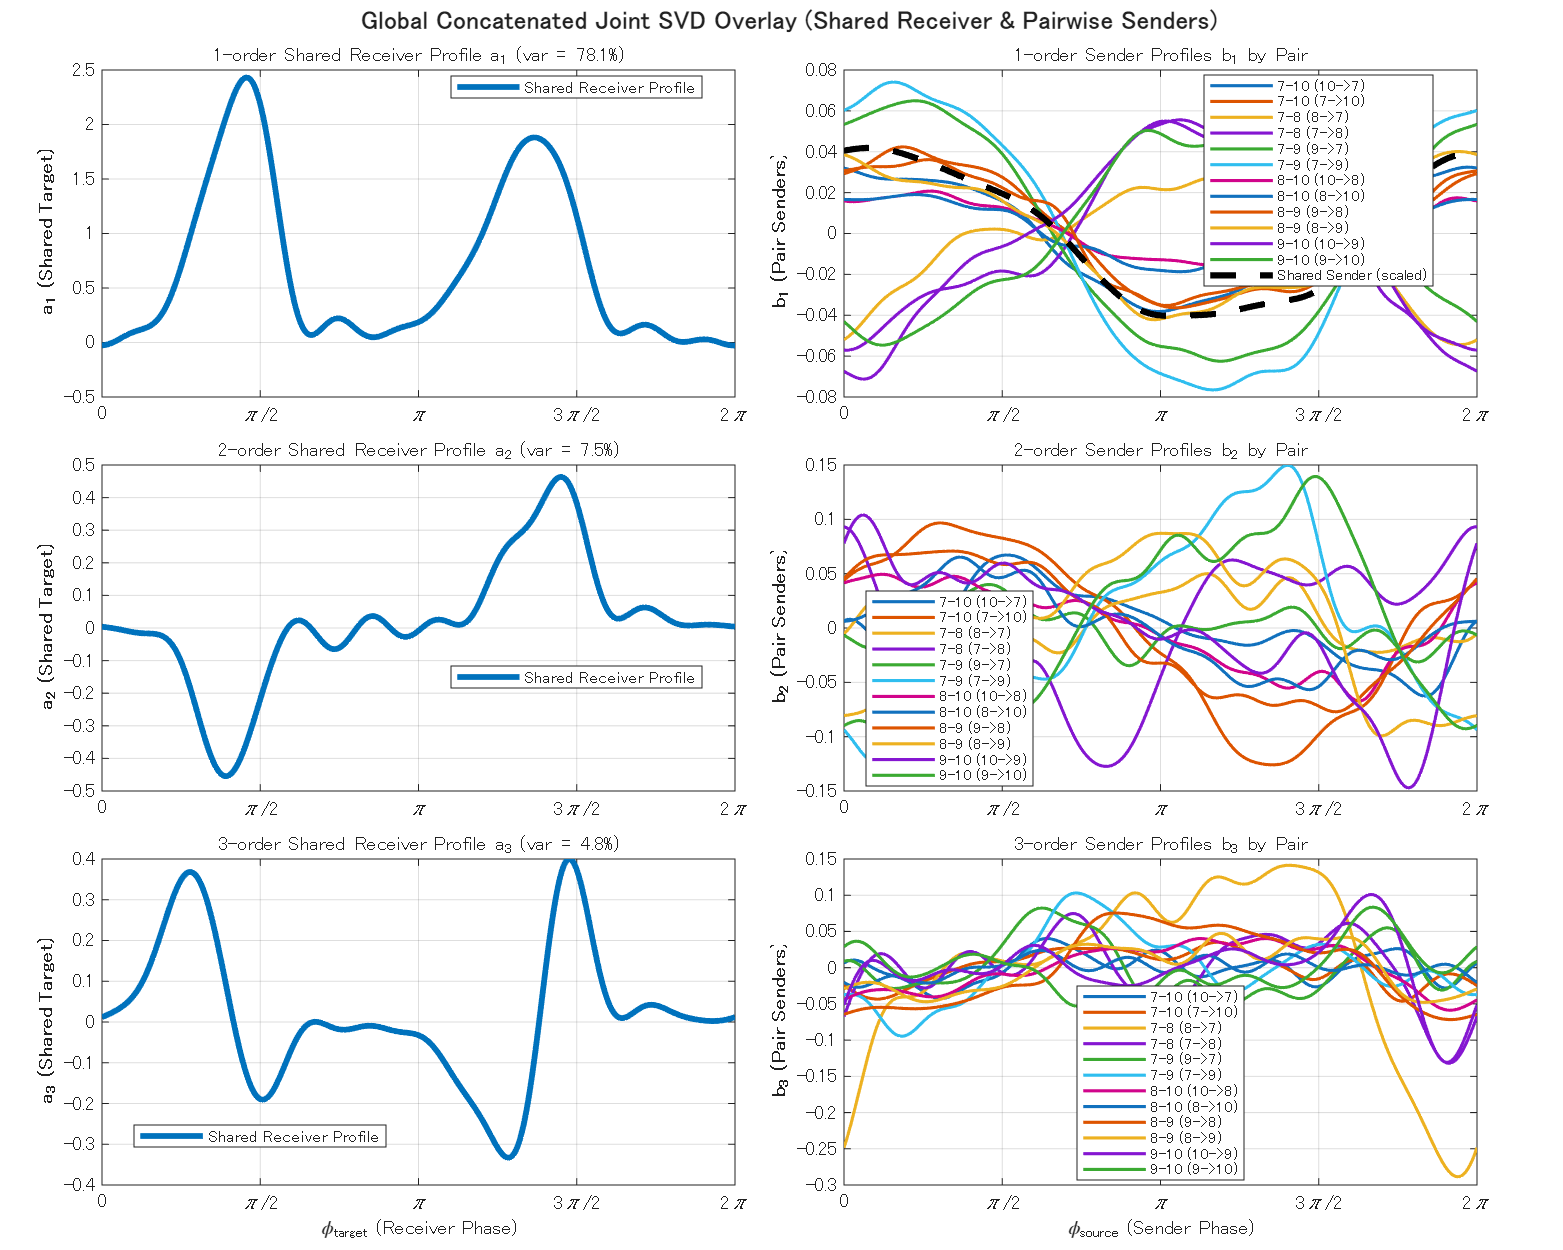
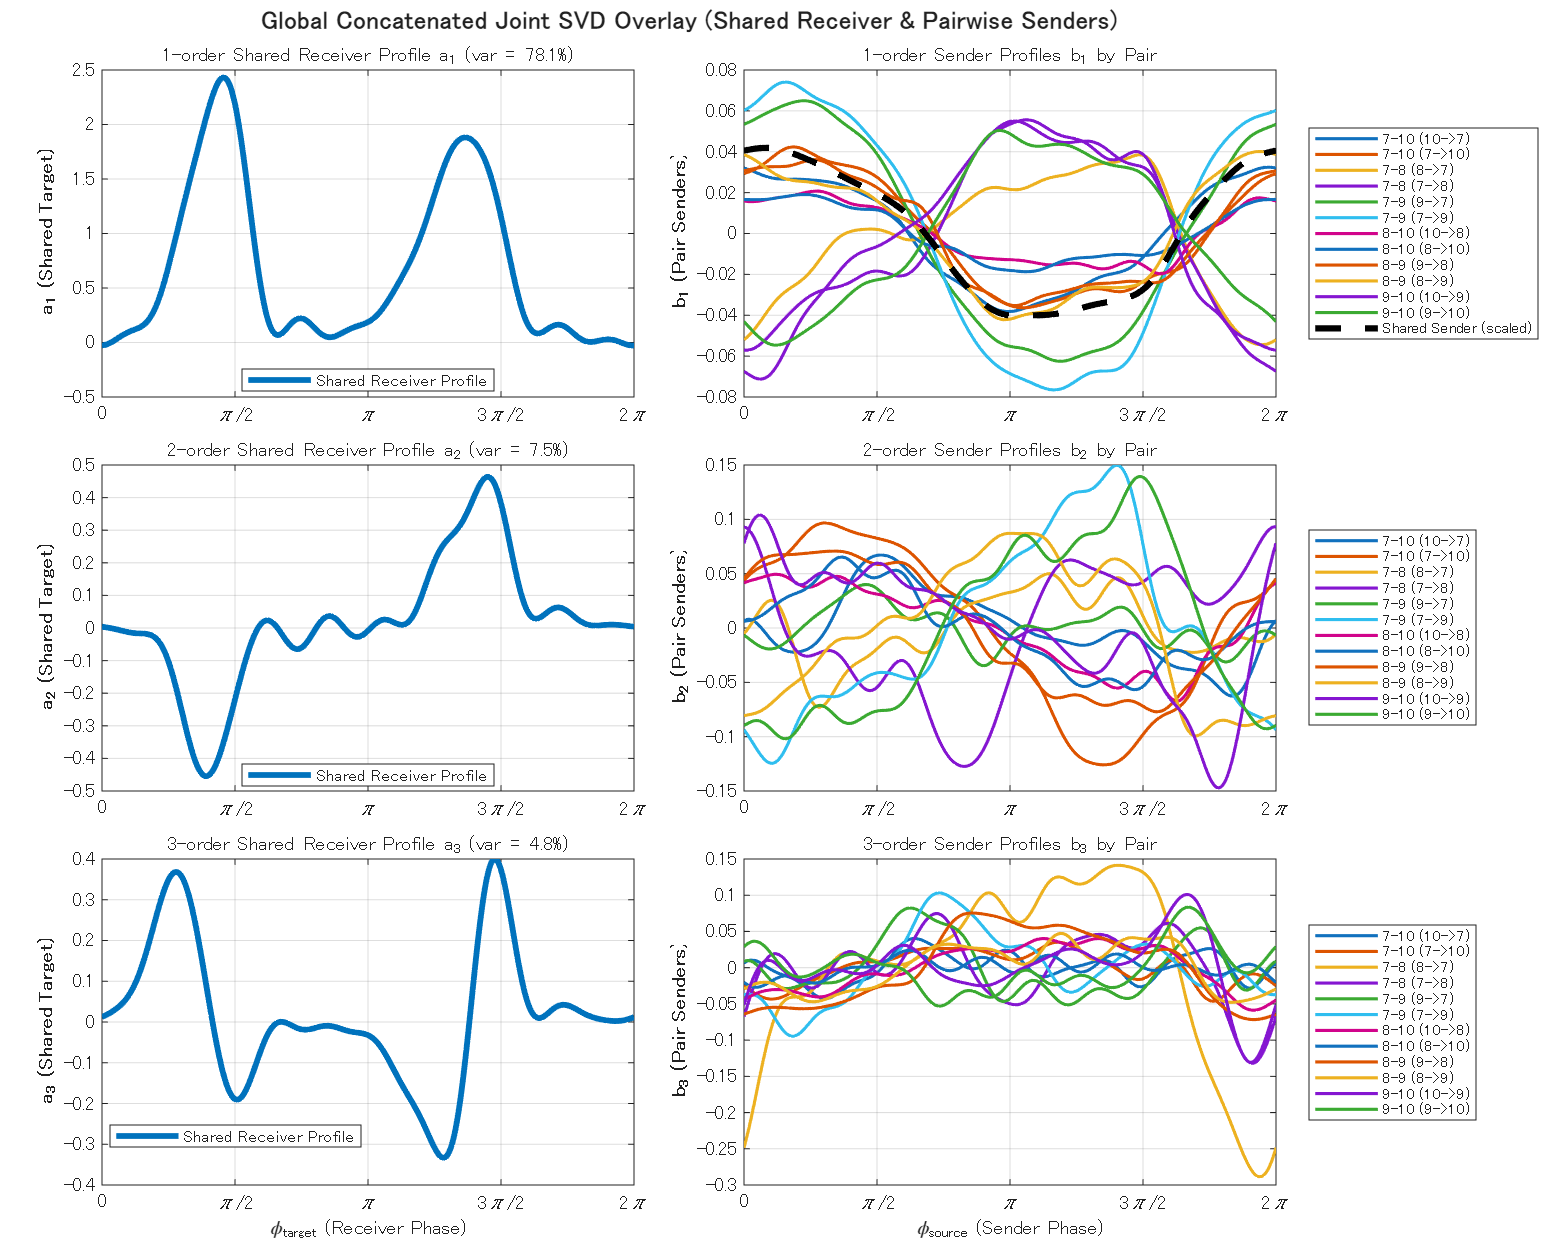
update3

diff --git a/EstimateL/plot_phase_dynamics_from_csv.m b/EstimateL/plot_phase_dynamics_from_csv.m
@@ -207,67 +207,7 @@ function out = plot_phase_dynamics_from_csv(input_path, phase_agent_ids, M, vara
         out.export = save_outputs(out, opts);
     end
 
-    % --- Save 3D plots (s-functions and point cloud overlay) to the respective pair/combination folder ---
-    [combination_folder, ~, ~] = fileparts(csv_paths{1});
-    if ~isempty(combination_folder) && exist(combination_folder, 'dir')
-        try
-            fig_3d = figure('Color', 'w', 'Position', [100, 100, 1100, 500], 'Visible', 'off', ...
-                'Name', sprintf('Fitted s-functions and point cloud - Agents %d and %d', ...
-                phase_agent_ids(1), phase_agent_ids(2)));
-            
-            % Generate grid for 3D surface plot
-            phi_grid_vals = linspace(0, 2*pi, 100);
-            [PhiG1, PhiG2] = meshgrid(phi_grid_vals, phi_grid_vals);
-            S1_grid = evaluate_fit_surface(PhiG1, PhiG2, fit_s1);
-            S2_grid = evaluate_fit_surface(PhiG1, PhiG2, fit_s2);
-            
-            % Subplot 1: s1
-            ax_3d_1 = subplot(1, 2, 1, 'Parent', fig_3d);
-            surf(ax_3d_1, PhiG1, PhiG2, S1_grid, 'EdgeColor', 'none', 'FaceAlpha', 0.7);
-            hold(ax_3d_1, 'on');
-            scatter3(ax_3d_1, point_cloud.phi1, point_cloud.phi2, point_cloud.s1, 8, point_cloud.s1, 'filled', ...
-                'MarkerEdgeColor', 'k', 'MarkerEdgeAlpha', 0.1, 'MarkerFaceAlpha', 0.4);
-            xlabel(ax_3d_1, '\phi_1');
-            ylabel(ax_3d_1, '\phi_2');
-            zlabel(ax_3d_1, 's_1');
-            title(ax_3d_1, sprintf('s_1, Agent %d', phase_agent_ids(1)));
-            set(ax_3d_1, 'XTick', [0, pi, 2*pi], 'XTickLabel', {'0', '\pi', '2\pi'});
-            set(ax_3d_1, 'YTick', [0, pi, 2*pi], 'YTickLabel', {'0', '\pi', '2\pi'});
-            grid(ax_3d_1, 'on');
-            axis(ax_3d_1, 'square');
-            view(ax_3d_1, 45, 30);
-            colormap(ax_3d_1, 'parula');
-            colorbar(ax_3d_1);
-            
-            % Subplot 2: s2
-            ax_3d_2 = subplot(1, 2, 2, 'Parent', fig_3d);
-            surf(ax_3d_2, PhiG1, PhiG2, S2_grid, 'EdgeColor', 'none', 'FaceAlpha', 0.7);
-            hold(ax_3d_2, 'on');
-            scatter3(ax_3d_2, point_cloud.phi2, point_cloud.phi1, point_cloud.s2, 8, point_cloud.s2, 'filled', ...
-                'MarkerEdgeColor', 'k', 'MarkerEdgeAlpha', 0.1, 'MarkerFaceAlpha', 0.4);
-            xlabel(ax_3d_2, '\phi_2');
-            ylabel(ax_3d_2, '\phi_1');
-            zlabel(ax_3d_2, 's_2');
-            title(ax_3d_2, sprintf('s_2, Agent %d', phase_agent_ids(2)));
-            set(ax_3d_2, 'XTick', [0, pi, 2*pi], 'XTickLabel', {'0', '\pi', '2\pi'});
-            set(ax_3d_2, 'YTick', [0, pi, 2*pi], 'YTickLabel', {'0', '\pi', '2\pi'});
-            grid(ax_3d_2, 'on');
-            axis(ax_3d_2, 'square');
-            view(ax_3d_2, 45, 30);
-            colormap(ax_3d_2, 'parula');
-            colorbar(ax_3d_2);
-            
-            % Save figure
-            fig_png_path = fullfile(combination_folder, 's_functions_3d.png');
-            fig_fig_path = fullfile(combination_folder, 's_functions_3d.fig');
-            saveas(fig_3d, fig_png_path);
-            saveas(fig_3d, fig_fig_path);
-            close(fig_3d);
-            fprintf('[INFO] Saved 3D surface and point cloud plots to %s (.png, .fig)\n', fig_png_path);
-        catch ME_fig
-            warning('Failed to save 3D plots in %s: %s', combination_folder, ME_fig.message);
-        end
-    end
+
 
     fprintf('[INFO] Fit completed with %d samples from %d file(s).\n', ...
         numel(point_cloud.phi1), numel(csv_paths));

diff --git a/EstimateL/simulate_round_relative_phase_dynamics.m b/EstimateL/simulate_round_relative_phase_dynamics.m
@@ -18,18 +18,18 @@ function out = simulate_round_relative_phase_dynamics(round_dir, M, varargin)
 %       'simulation_duration_sec', 120, 'simulation_dt', 0.01);
 
     if nargin < 1 || isempty(round_dir)
-        round_dir = fullfile('EstimateL', 'SStick');
+        round_dir = fullfile('EstimateL', 'Round');
     end
     if nargin < 2 || isempty(M)
         M = 10;
     end
 
-    default_sigma = -7;
+    default_sigma = 7;
     default_remove_gamma_bias = false; % Set to true to subtract the mean (bias) from Gamma functions
     default_subtract_self_profile = true; % Set to true to subtract mean self-profile before Gamma calculation
     default_add_self_feedback = true; % Set to true to add 1 copy of self-profile feedback in simulation when subtract_self_profile is true
     default_use_first_harmonic = false; % Set to true to approximate Gamma with constant + 1st sin wave
-    default_use_original_system = true; % Set to true to simulate the original 2D dynamics instead of phase-averaged Gamma dynamics
+    default_use_original_system = false; % Set to true to simulate the original 2D dynamics instead of phase-averaged Gamma dynamics
 
     opts = parse_options(default_sigma, default_remove_gamma_bias, default_subtract_self_profile, default_add_self_feedback, default_use_first_harmonic, default_use_original_system, varargin{:});
     validateattributes(M, {'numeric'}, {'scalar', 'integer', 'nonnegative', 'finite'}, mfilename, 'M');

diff --git a/EstimateL/global_joint_svd_analysis.m b/EstimateL/global_joint_svd_analysis.m
@@ -507,7 +507,7 @@ function all_global_results = global_joint_svd_analysis(round_dir, M, varargin)
             if r == 1 && isfield(all_global_results, 'b_shared_r1')
                 leg_lbls{end+1} = 'Shared Sender (scaled)';
             end
-            legend(ax_out, leg_lbls, 'Location', 'best', 'FontSize', 7, 'Interpreter', 'none');
+            legend(ax_out, leg_lbls, 'Location', 'eastoutside', 'FontSize', 7, 'Interpreter', 'none');
         end
         title(ax_out, sprintf('%d-order Sender Profiles b_%d by Pair', r, r));
     end